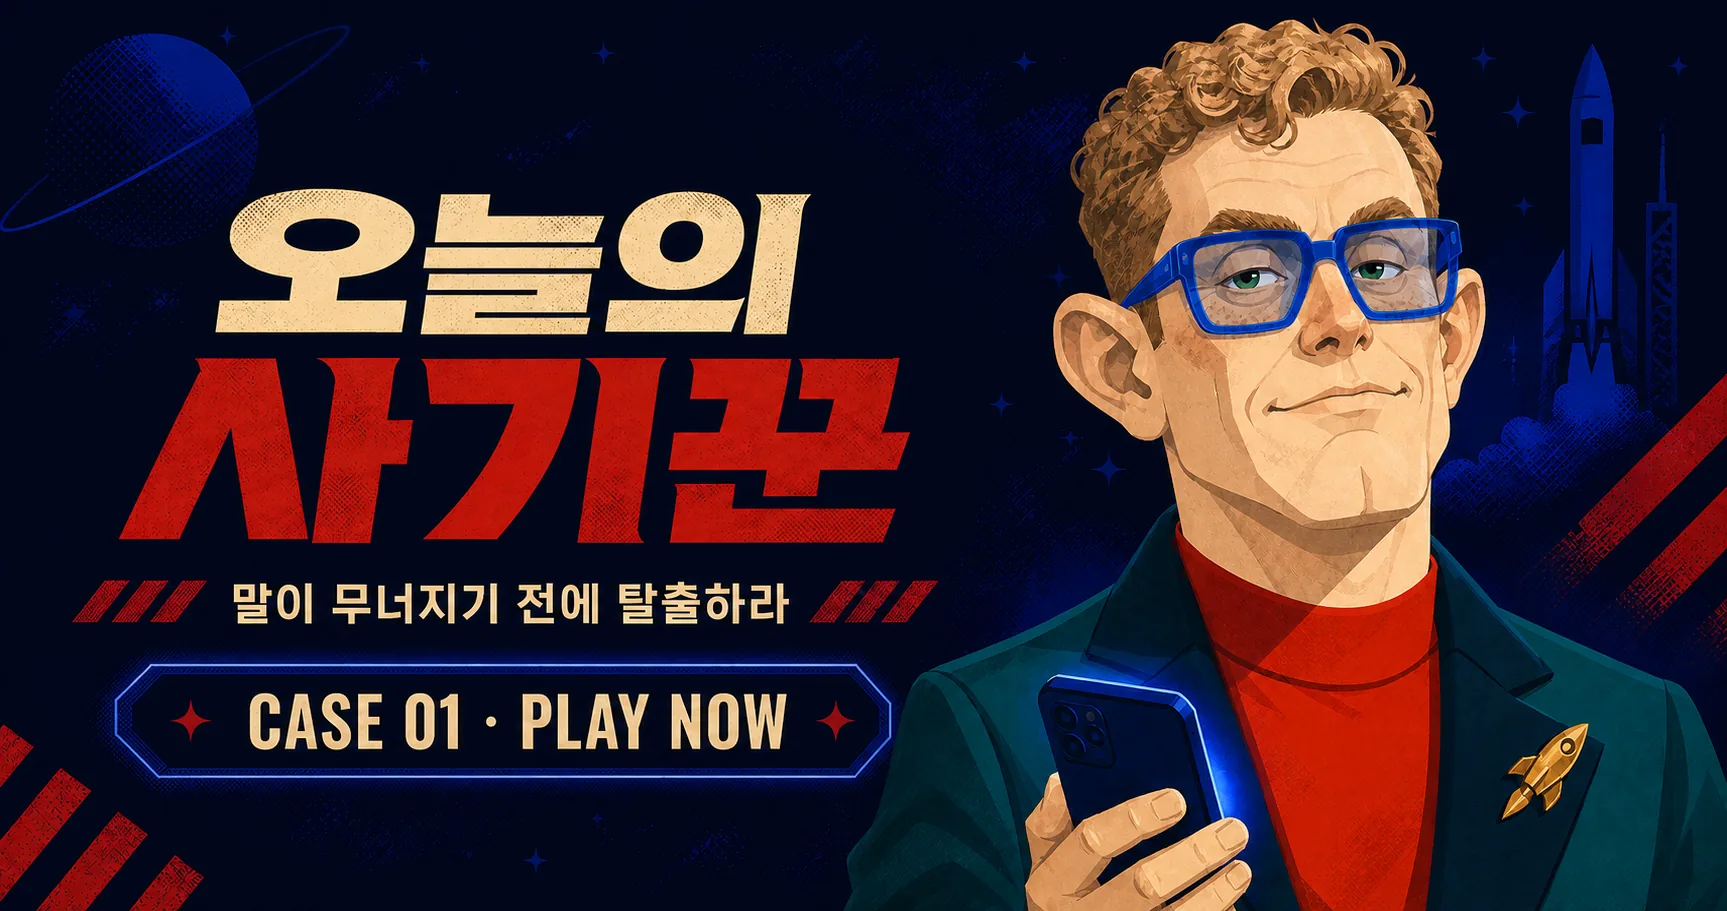
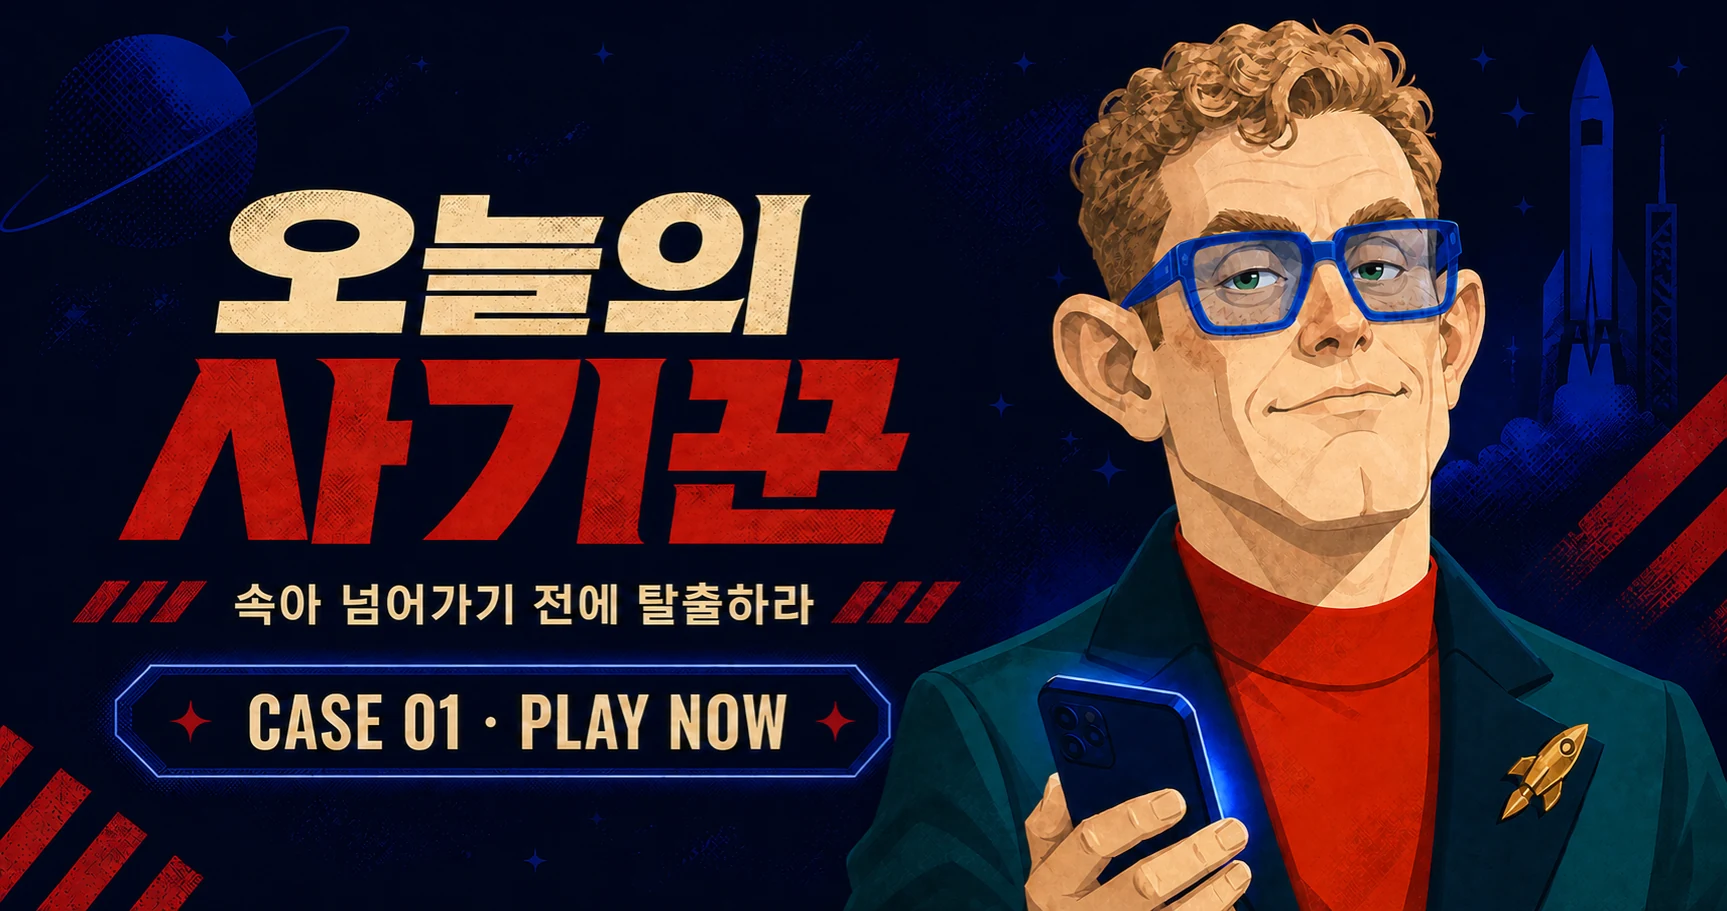
Refresh scammer tagline and social preview

diff --git a/app/layout.tsx b/app/layout.tsx
@@ -17,21 +17,21 @@ export async function generateMetadata(): Promise<Metadata> {
   const origin = `${protocol}://${host}`;
 
   return {
-    title: "오늘의 사기꾼 — 말이 무너지기 전에 탈출하라",
-    description: "수상한 사기꾼과 실제 메신저처럼 대화하고, 사기 신호를 찾아 탈출하는 짧은 상황극 게임.",
+    title: "오늘의 사기꾼 — 속아 넘어가기 전에 탈출하라",
+    description: "속아 넘어가기 전에 탈출하라. 수상한 사기꾼과 실제 메신저처럼 대화하고 사기 신호를 찾는 짧은 상황극 게임.",
     applicationName: "오늘의 사기꾼",
     formatDetection: { telephone: false, address: false, email: false },
     appleWebApp: { capable: true, statusBarStyle: "black-translucent", title: "오늘의 사기꾼" },
     openGraph: {
       title: "오늘의 사기꾼",
-      description: "말이 무너지기 전에 탈출하라",
+      description: "속아 넘어가기 전에 탈출하라",
       type: "website",
       images: [{ url: `${origin}/og.webp`, width: 1727, height: 911, alt: "오늘의 사기꾼 CASE 01 캐릭터 셀렉트" }],
     },
     twitter: {
       card: "summary_large_image",
       title: "오늘의 사기꾼",
-      description: "말이 무너지기 전에 탈출하라",
+      description: "속아 넘어가기 전에 탈출하라",
       images: [`${origin}/og.webp`],
     },
   };

diff --git a/app/page.tsx b/app/page.tsx
@@ -1177,10 +1177,10 @@ export default function Home() {
   const shareResult = async () => {
     const copy = activeEndingCopy[ending];
     const moneyResult = virtualMoneyLost > 0 ? `게임 속 가상금액 ${virtualMoneyLost.toLocaleString("ko-KR")}원을 보냈습니다.` : `게임 속 가상금액 ${activeCase.virtualAmount}을 지켜냈습니다.`;
-    const text = `《오늘의 사기꾼》\n사기 생존력 ${stats.total}점\n🔍 증거 ${suspicion} / ${activeCase.clueTotal}\n오판 ${wrongClues}\n${moneyResult}\n${copy.shareLine}\n\n너도 살아남을 수 있음?\n게임 시뮬레이션 · 실제 금전 거래 없음`;
+    const text = `《오늘의 사기꾼》\n속아 넘어가기 전에 탈출하라\n\n사기 생존력 ${stats.total}점\n🔍 증거 ${suspicion} / ${activeCase.clueTotal}\n오판 ${wrongClues}\n${moneyResult}\n${copy.shareLine}\n\n너도 살아남을 수 있음?\n게임 시뮬레이션 · 실제 금전 거래 없음`;
     try {
       if (navigator.share) {
-        await navigator.share({ title: "오늘의 사기꾼 결과", text, url: window.location.origin });
+        await navigator.share({ title: "오늘의 사기꾼 — 속아 넘어가기 전에 탈출하라", text, url: window.location.origin });
         return;
       }
       await navigator.clipboard.writeText(`${text}\n${window.location.origin}`);
